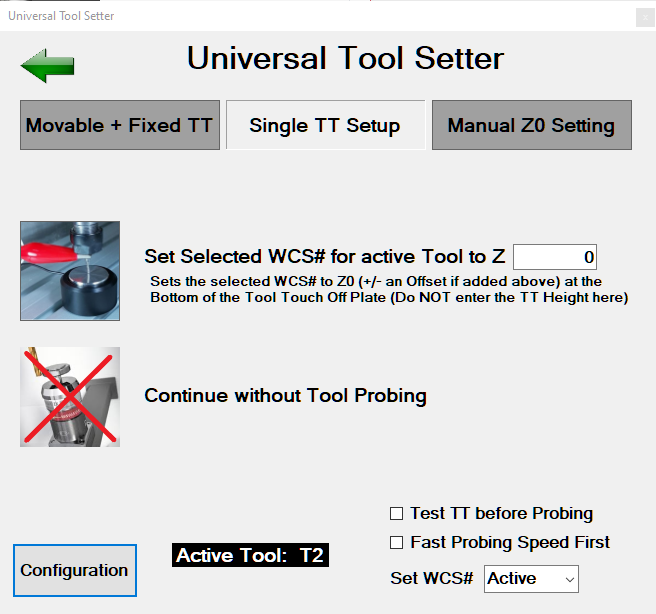
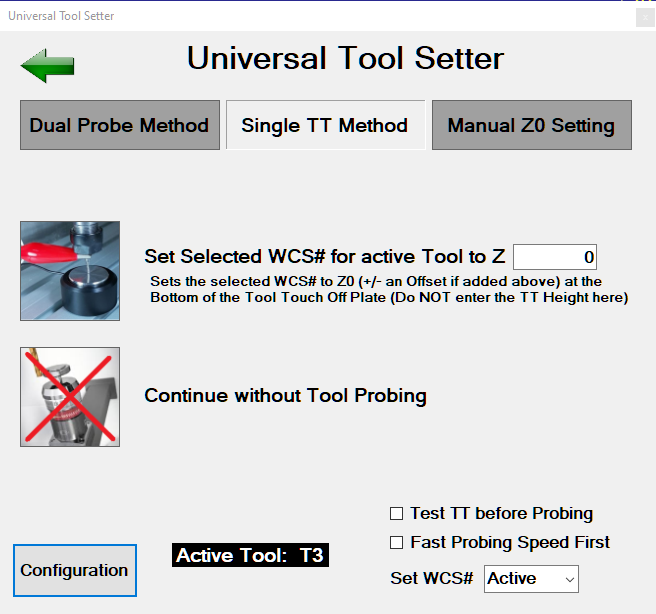
v2.0 Doc Updates

diff --git a/docs/ToolSetter.md b/docs/ToolSetter.md
@@ -9,6 +9,8 @@ Adding a simple M58 command into the *mfunc6.mac* Tool Change Macro will bring u
 ![](/images/pa065.PNG)
 
 These Probing Cycles require that all tools are configured in the CNC12 Tool Offset Library with a Height Offset of 0. The ProbeApp will issue a *Warning* if this is not the case.
+It is recommended that you run the ProbeApp **Tool Offsetter** first as it will make sure that all Tool Height Offsets in the CNNC12 Tool Offset Library are reset to 0 for the **Tool Setter** cycles to work properly.
+
 Before these probing cycles can be used for the first time, the *Configuration* Button needs to be pressed to confirm Probe settings and probing options.
 See the *Configuration* chapter for each Method below for details. 
 
@@ -16,14 +18,14 @@ The Universal Tool Setter Cycles support 3 different Tool Setting Methods.
 
 Click the links below for details on each Method:
 
-* [Using a Movable and a Fixed Tool Touch Off Plate](ToolSetterMod1.md)
-* [Using a single, Movable Tool Touch Off Plate](ToolSetterMod2.md)
+* [Dual Probe Method](ToolSetterMod1.md)
+* [Single Tool Touch Off Device Method](ToolSetterMod2.md)
 * [Manual Tool Touch Off](ToolSetterMod3.md)
 
 ## Integration Options
 By default the ProbeApp does integrate with CNC12 via M58 by installing a customized mfunc58.mac file into the *C:\cncm* folder.
 
-A M58 command will bring up the ProbeApp Main screen by default. This behavior can be customized in the *mfunc58.mac* file:
+Pressing the Probe Button on the VCP or commanding a M58 command will bring up the ProbeApp Main screen by default. This behavior can be customized in the *mfunc58.mac* file:
 
 ``` javascript
 ;--------------------------------------------------------------------------------
@@ -48,13 +50,35 @@ M130 "C:\cncm\probing\ProbeApp.exe -ToolSetter"   ;Startup ProbeApp directly wit
 .
 ```
 
-If it is preferred that a M58 command will directly open the Tool Setter screen instead of the Main screen, modify the *mfunc58.mac* file as shown above.
+If it is preferred that the Probe Button on the VCP or a M58 command will directly open the Tool Setter screen instead of the Main screen, modify the *mfunc58.mac* file as shown above.
 
-*NOTE* that changing the ProbeApp startup behavior in the *mfunc58.mac* file will also impact the behavior of the ProbeApp button on the Virtual Control panel. 
+Version 2 of the ProbeApp now offers a new method to temporarely overwrite the default ProbeApp Cycle screen by setting the CNC12 variable #29500 bevore calling the M58 command.
 
-Adding a simple M58 into the M6 Tool Change command will integrate the Tool Setter into every Tool Change.
+These are the possible values:
 
-Here's an Example of a minimalistic *mfunc6.mac* file:
+``` javascript
+#29500 = 0  ; Main Menu (Default)
+#29500 = 1  ; Angle
+#29500 = 2  ; Bore
+#29500 = 3  ; BorePlate
+#29500 = 4  ; Boss
+#29500 = 5  ; CornerPlate
+#29500 = 6  ; Cube
+#29500 = 7  ; InCor
+#29500 = 8  ; InCorPlate
+#29500 = 9  : OutCor
+#29500 = 10 ; Single
+#29500 = 11 ; Slot
+#29500 = 12 ; ToolOffsetter
+#29500 = 13 ; ToolSetter
+#29500 = 14 ; TripleCorner
+#29500 = 15 ; Web
+,,,
+
+Use the #29500 to temporarely overwrite the default opening Probing Cycle specified in the **mfunc58.mac** macro file.
+
+Here's an Example of a minimalistic *mfunc6.mac* file that will open the **ProbeApp-Tool Setter** at every M6 Tool Change:
+
 ``` javascript
 ;------------------------------------------------------------------------------
 ; File     : mfunc6.mac
@@ -80,115 +104,24 @@ G53 Z0                                      ;Default
 ;G30 P4 G91 Z0
 
 ;------------------------------------------------------------------------------
-; Display Tool Change Message (uncomment your selection below)
+; Display Tool Change Message
 ;------------------------------------------------------------------------------
-IF #50001									;Force lookahead to stop processing                          			
-M225 #101 "#)Insert Tool #%.0f\n%s\nD:%.3f    H:%.3f\n\nPress Cycle Start to continue" #4120 #390 #[11000 + #4120] #[10000 + #4120]
+IF #50001									;Force lookahead to stop processing
+#101 = 0
+M225 #101 "#)Insert Tool #%.0f\nD:%.3f    H:%.3f\n\nPress Cycle Start to continue" #4120 #[11000 + #4120] #[10000 + #4120]
 
 ;------------------------------------------------------------------------------
 ; ProbeApp Call
 ;------------------------------------------------------------------------------
+#29500 = 13                                 ;Opens the ProbeApp directly with Tool Setter screen
 M58
 
 N1000                                       ;End of macro  
 ```
 
-If it is preferred to have the ProbeApp button on the Virtual Control panel to bring up the ProbeApp Main screen but the M6 Tool Change command should bring up the Tool Setter,
-use the file *mfunc6.mac.customize-for-ProbeApp* that has been placed into the *C:\cncm* folder, customize it to your requirements and save it as *mfunc6.mac*.
+Check out and customize the file *mfunc6.mac.customize-for-ProbeApp* that has been placed into the *C:\cncm* folder by the ProbeApp installation process.
+Rename the file to *mfunc6.mac* to activate it in CNC12.
 
-``` javascript
-;------------------------------------------------------------------------------
-; File     : mfunc6.mac - to be customized for use with ProbeApp and/or Fusion 360 Post Processor with enhanced Features
-; Purpose  : Tool change macro for Acorn CNC12 - Extended Information Diplay and ProbeApp support
-;
-; Usage    : Customize the sections below to your needs
-;            Requires -swissi's Fusion 360 Post Processor Property "Write CNC12 Info Variables" to be enabled for extended Info Display
-;            Requires -swissi's ProbeApp to integrate extensive Probing Functionality into the M6 Tool Change
-; Author   : -swissi
-; Date     : 22 March 2020
-;------------------------------------------------------------------------------
-
-IF #50001                         			;Force lookahead to stop processing 
-IF #4201 || #4202 THEN GOTO 1000   			;Skip when graphing or searching
-
-;------------------------------------------------------------------------------
-; Turn Off Spindle
-;------------------------------------------------------------------------------
-M5                                   
-
-;------------------------------------------------------------------------------
-; Retract Z to preferred Tool Change Position (uncomment your selection below)
-;------------------------------------------------------------------------------
-IF #50001                         			;Force lookahead to stop processing
-G53 Z0                                      ;Default
-;G28 G91 Z0
-;G30 G91 Z0
-;G30 P3 G91 Z0
-;G30 P4 G91 Z0
-
-;------------------------------------------------------------------------------
-; Display Tool Change Message (uncomment your selection below)
-;------------------------------------------------------------------------------
-IF #50001									;Force lookahead to stop processing                          			
-
-;Default
-M225 #101 "#)Insert Tool #%.0f\n%s\nD:%.3f    H:%.3f\n\nPress Cycle Start to continue" #4120 #390 #[11000 + #4120] #[10000 + #4120]
-
-;use this for extended Info display when using -swissi's Fusion 360 Post Processor Property "Write CNC12 Variables"
-;M225 #101 "#)Insert Tool #%.0f\n\nCNC12: T%.0f  D=%.3f  Height-Offset=%.3f\nFusion : %s\n%s\n\nFlutes=%s  Spindle Speed=%s %s  Cooling=%s\n\nWOC=%s  DOC=%s  Feed per Tooth=%s  Feed per Rev=%s\n\nFeed=%s  Ramp=%s  Plunge=%s\n\n      Press Cycle Start to continue\n" #4120 #4120 #[11000 + #4120] #[10000 + #4120] #330 #314 #311 #315 #316 #312 #317 #318 #320 #323 #319 #321 #322
-
-;------------------------------------------------------------------------------
-; ProbeApp Support Section (do not change this section below)
-;------------------------------------------------------------------------------
-IF #50001	
-#33999 = #4006                                   ;Store active units
-G65 "c:\cncm\probing\probe_initialize.cnc" A99   ;Run Probe Initialization to check for Setup Errors (A99 = Don't check Inputs)
-If #50001                                        ;Prevent lookahead from parsing past here
-G65 "c:\cncm\probing\probe_save_parameters.cnc"  ;Save CNC12 Parameters to make them available in ProbeApp
-If #50001                                        ;Prevent lookahead from parsing past here
-
-;---------------------------------------------------------------------------------------
-;ProbeApp Startup Options to directly open a specific Probing Cycle (select as required)
-;---------------------------------------------------------------------------------------
-;M130 "C:\cncm\probing\ProbeApp.exe"               ;Startup ProbeApp Main Screen
-M130 "C:\cncm\probing\ProbeApp.exe -ToolSetter"   ;Startup ProbeApp directly with Universal Tool Setter Screen
-;M130 "C:\cncm\probing\ProbeApp.exe -CornerPlate"  ;Startup ProbeApp directly with Corner Plate Screen
-;M130 "C:\cncm\probing\ProbeApp.exe -InCorPlate"   ;Startup ProbeApp directly with Square Plate Screen
-;M130 "C:\cncm\probing\ProbeApp.exe -BorePlate"    ;Startup ProbeApp directly with Bore Plate Screen
-
-;-----------------------------------------------------------------------------
-;Section below required for ProbeApp (do not change section below)
-;-----------------------------------------------------------------------------
-
-#30000 = 0                                         ;No probing Cycle saved when this remains at 0 
-N100
-G4 P1
-
-;+=============================================
-;|                     Probing Cycle in Progress!"
-;|
-;|                 Press "Cycle Cancle" to terminate
-;+=============================================
-M200 "Press Cycle Start to begin Probing Cycle\nPress Cycle Cancel to Exit"
-
-
-
-
-
-IF #50001 ;sync
-G65 "c:\cncm\ncfiles\probing_cycle.cnc"
-
-; restore active unit of meassure after probing
-IF #33999 == 20 THEN G20 ELSE G21
-
-; display message if no Probing Cycle has been found
-IF #30000 == -1 THEN M200 "No Probing Cycle found!\n\nPress Cycle Start to Continue, Cycle Cancel to Abort"
-
-; display Error Message if Probing Cycle was aborted
-IF #30000 > 1 THEN G65 "#301\probe_error.cnc" A[#30000]
-
-N1000                                       ;End of macro  
-``` 
 
 
 [Back](index.md)
